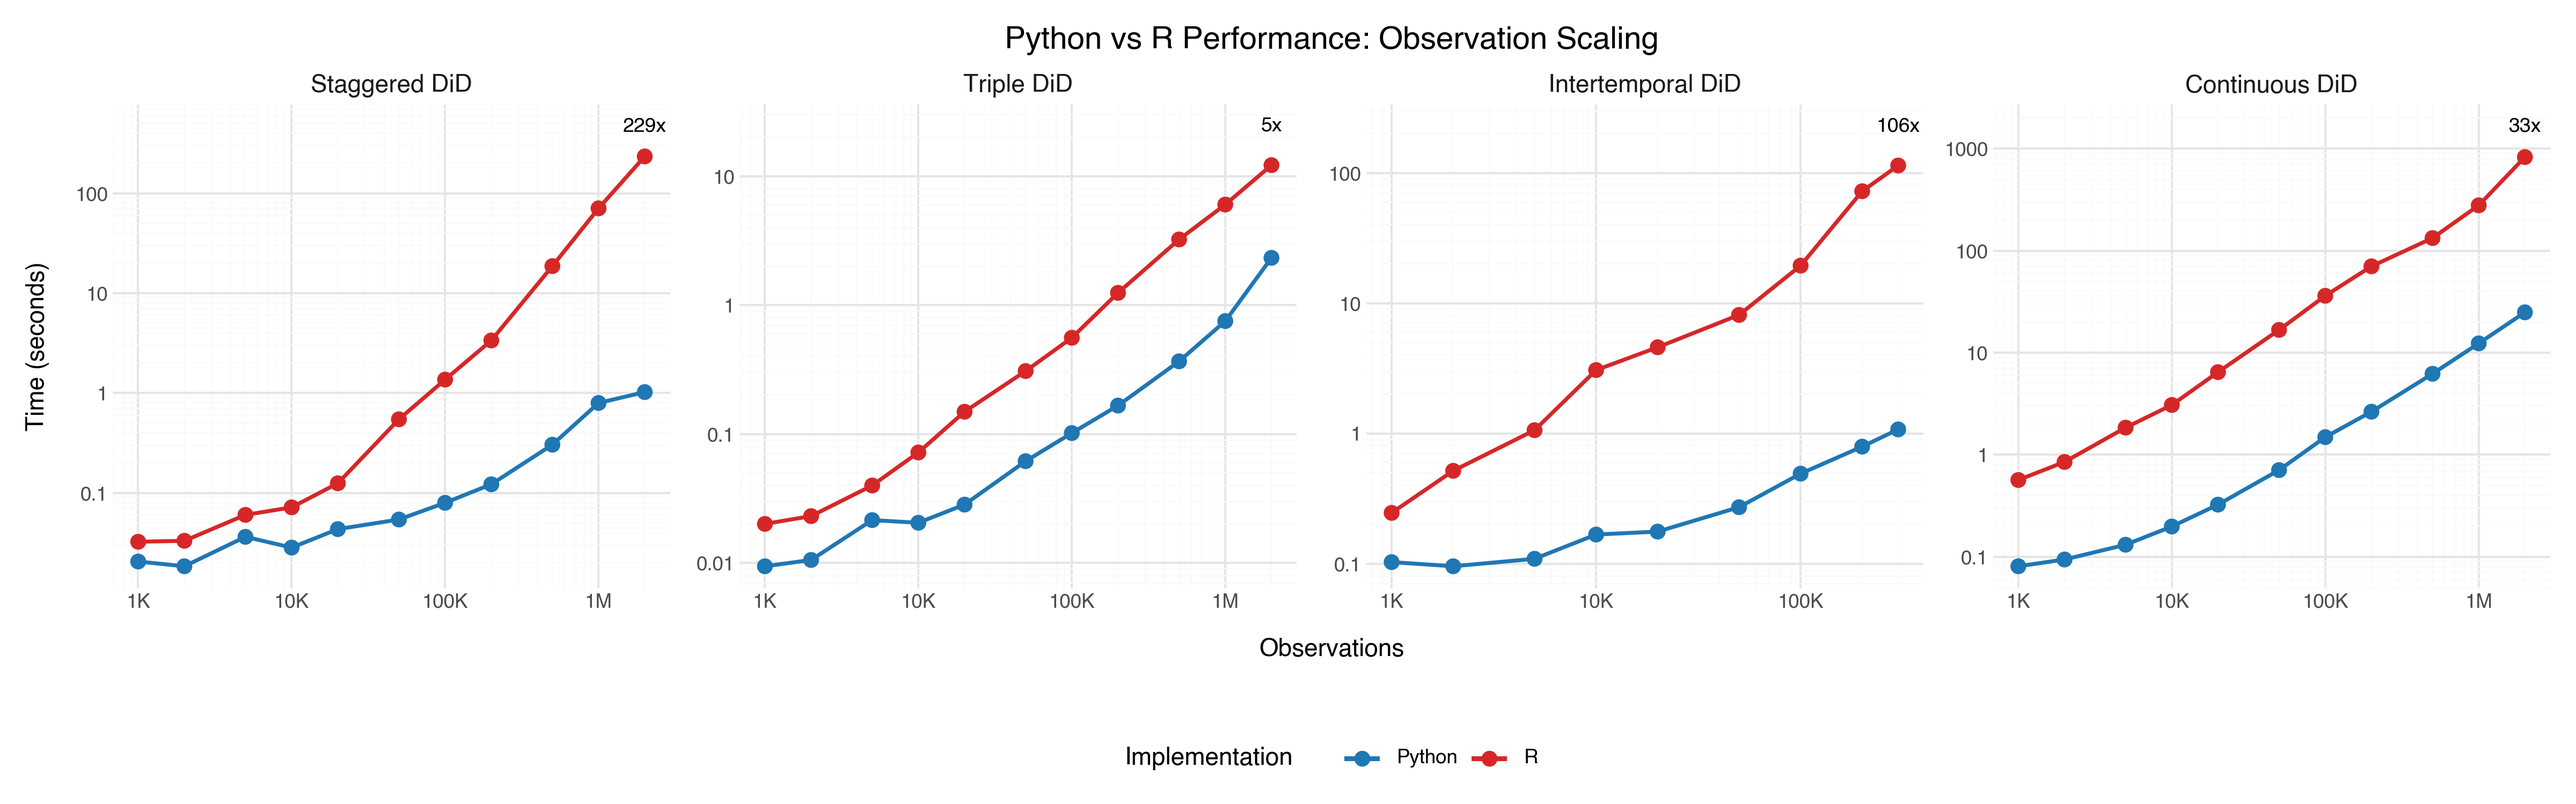
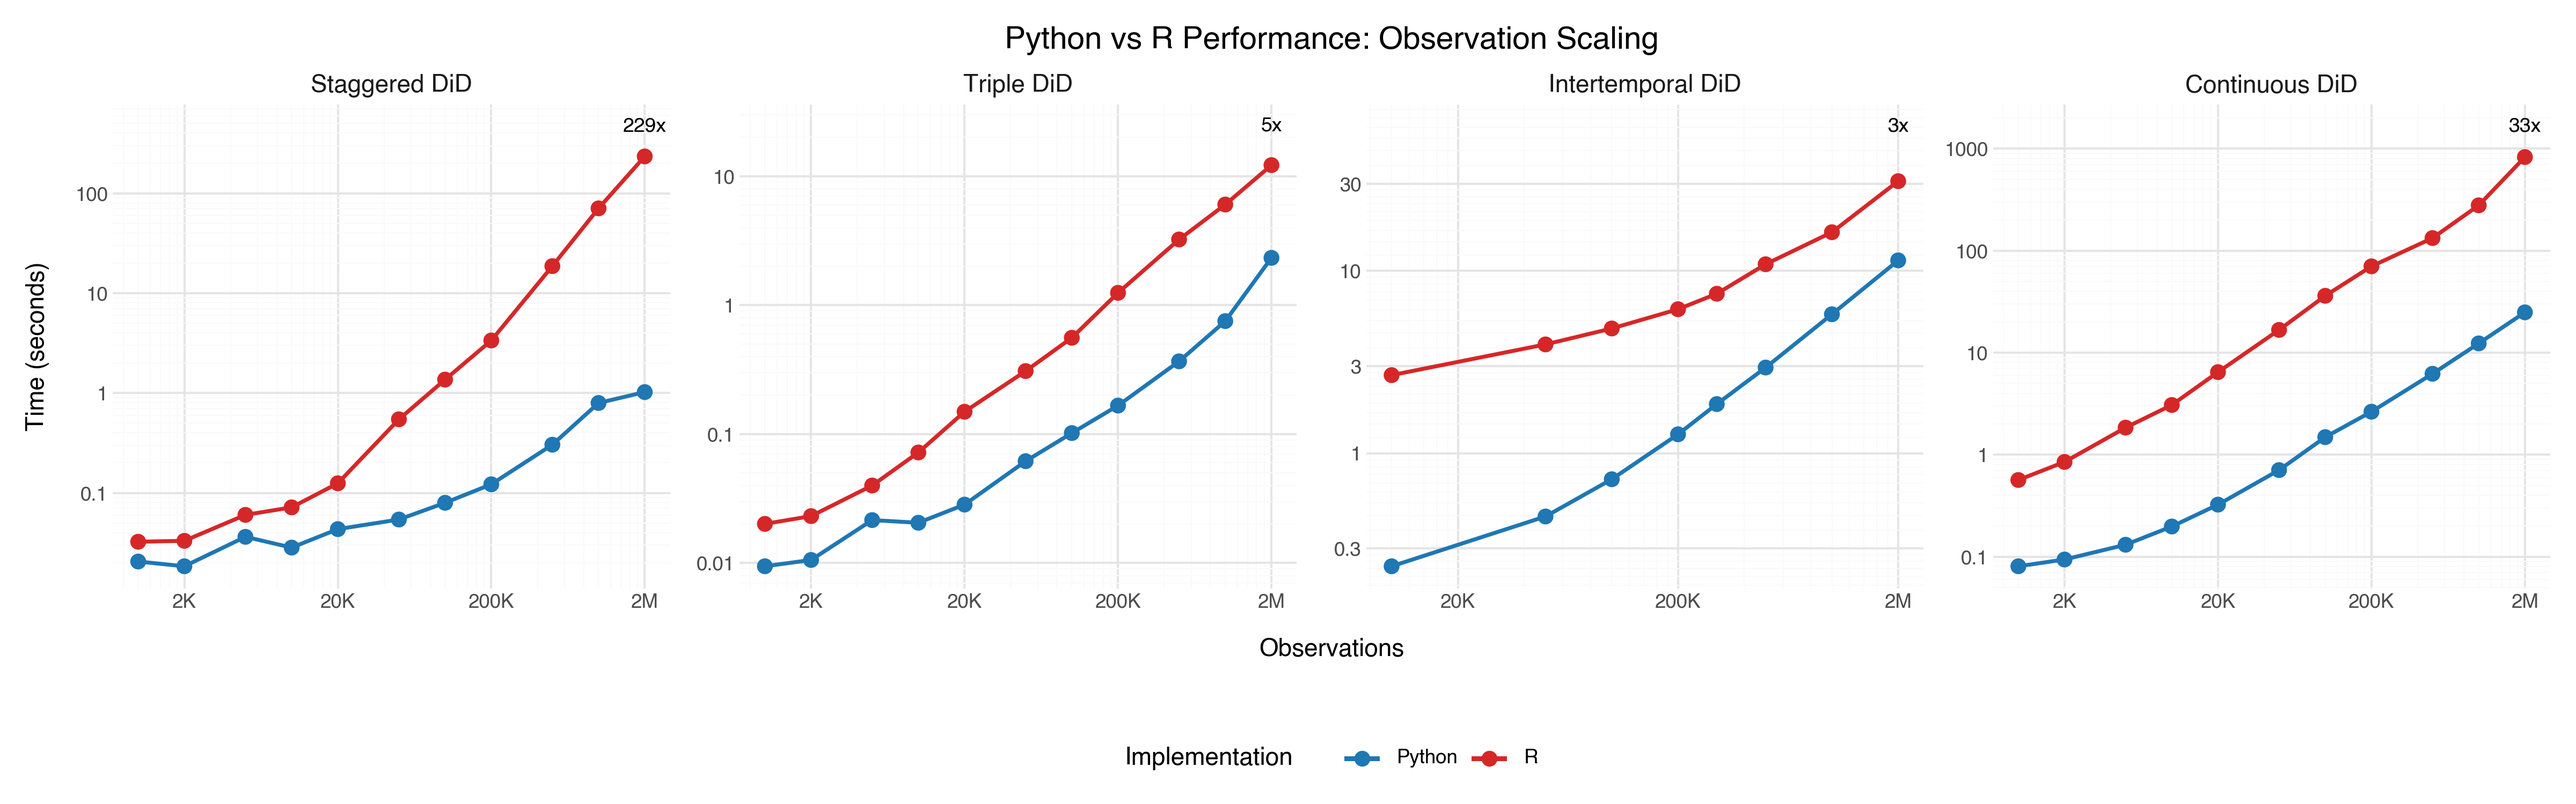
FEAT: update benchmark patterns, adjust max observations, and enhance documentation on ATT and ACRT

diff --git a/benchmark/plot.py b/benchmark/plot.py
@@ -44,7 +44,7 @@ ESTIMATOR_CONFIG = {
     "didinter": {
         "name": "Intertemporal DiD",
         "order": 3,
-        "patterns": ["benchmark_didinter_custom_*.csv"],
+        "patterns": ["benchmark_didinter_scaling_vs_r_*.csv"],
         "filter": {"boot": False, "n_periods": 8, "effects": 3},
     },
     "contdid": {
@@ -99,7 +99,7 @@ def main():
     parser.add_argument(
         "--max-obs",
         type=int,
-        default=None,
+        default=2_000_000,
         help="Maximum observations to include (filter out larger datasets)",
     )
 
@@ -184,9 +184,10 @@ def generate_plot(
         )
         + facet_wrap("~estimator", ncol=ncol, scales="free", labeller=labeller(estimator=_strip_prefix))
         + scale_x_log10(
+            breaks=[2000, 20000, 200000, 2000000],
             labels=lambda x: [
                 f"{int(v / 1000000)}M" if v >= 1000000 else f"{int(v / 1000)}K" if v >= 1000 else str(int(v)) for v in x
-            ]
+            ],
         )
         + scale_y_log10()
         + scale_color_manual(values={"Python": "#1f77b4", "R": "#d62728"})

diff --git a/benchmark/didinter/runners.py b/benchmark/didinter/runners.py
@@ -231,7 +231,6 @@ gc(verbose = FALSE, full = TRUE, reset = TRUE)
 
 # Load packages with minimal overhead
 suppressPackageStartupMessages({{
-    library(polars)
     library(DIDmultiplegtDYN)
     library(jsonlite)
     library(data.table)

diff --git a/docs/source/user_guide/example_cont_did.rst b/docs/source/user_guide/example_cont_did.rst
@@ -153,24 +153,41 @@ this, showing significant positive effects.
 The ``degree`` and ``num_knots`` parameters control the flexibility of the
 B-spline approximation. Higher values allow more complex dose-response shapes
 but increase variance. With ``degree=3`` and ``num_knots=1``, we use a cubic
-spline with one interior knot, which provides reasonable flexibility for most
-applications.
+spline with one interior knot.
 
 
 Understanding ATT versus ACRT
 -----------------------------
 
-Which one you should target depends on your research question.
+Which estimate you should target depends on your research question.
 
-The :math:`ATT(d)` estimate answers the question of what is the average effect of receiving dose :math:`d`
-compared to no treatment. This is the level of the dose-response curve at each
-point. For policy evaluation, ATT tells you the expected benefit of a specific
-treatment intensity.
+**ATT(d)** estimates the average effect of receiving dose :math:`d` compared
+to no treatment.
 
-The :math:`ACRT(d)` estimate answers the question of what is the marginal effect of increasing the
-dose. This is the derivative of the dose-response curve. For policy optimization,
-ACRT tells you whether increasing treatment intensity would yield additional
-benefits.
+- Level of the dose-response curve at each point
+- For policy evaluation, tells you the expected benefit of a specific
+  treatment intensity
+- Identified under standard parallel trends
+- Recovers :math:`ATT(d)`, a local effect for units who received dose
+  :math:`d`
+
+**ACRT(d)** estimates the marginal effect of increasing the dose.
+
+- Derivative (slope) of the dose-response curve
+- For policy optimization, tells you whether increasing intensity yields
+  additional benefits
+- Identified under strong parallel trends (typically stronger)
+- Recovers :math:`ATE(d)` and :math:`ACRT(d)` as population-level
+  parameters
+
+Both parameters come from the same underlying comparison, the change in
+outcomes for dose group :math:`d` minus the change for untreated units. What
+differs is the causal interpretation. Under standard parallel trends, this
+comparison identifies :math:`ATT(d)`, a local effect specific to units who
+actually received dose :math:`d`. Under strong parallel trends, it also
+identifies :math:`ATE(d)`, the effect for the general population, and
+:math:`ACRT(d)` gains a causal interpretation as the derivative of this
+curve.
 
 When the dose-response is linear, ATT and ACRT have a simple relationship
 because the slope is constant. With our quadratic specification, the ACRT
@@ -184,30 +201,50 @@ ATT and ACRT require different identifying assumptions, so which one you
 report depends on both your research question and what you are willing to
 assume.
 
-The :math:`ATT(d)` estimate is identified under standard parallel trends, the same assumption
-as in binary DiD extended to the continuous case. We assume that untreated
-potential outcomes would have evolved similarly across dose groups. If you
-believe that absent treatment, high-dose and low-dose units would have
-followed parallel outcome paths, ATT(d) is identified. This is the right
-target when you want to know the effect of receiving dose d versus no
-treatment.
+**ATT(d) and standard parallel trends**
 
-The :math:`ACRT(d)` estimate requires a stronger "strong parallel trends" assumption. To
-interpret outcome differences *across* dose groups as causal responses to
-dose changes, we need to rule out selection on gains. If units that benefit
-more from treatment systematically choose higher doses, comparing across
-dose groups conflates the causal effect with this selection. ACRT is the
-right target when you want to know the marginal benefit of increasing dose,
-but you should be explicit that this requires assuming no selection on gains.
+This is the same assumption as in binary DiD extended to the continuous
+case. We assume that untreated potential outcomes would have evolved
+similarly across dose groups. If you believe that absent treatment, high-dose
+and low-dose units would have followed parallel outcome paths, ATT(d) is
+identified. This is the right target when you want to know the effect of
+receiving dose d versus no treatment.
+
+**ACRT(d) and strong parallel trends**
+
+This is a typically stronger assumption than standard parallel trends (the
+two are technically non-nested, but in practice strong parallel trends is the
+more demanding condition). Standard parallel trends alone is not enough
+because comparing outcomes across dose groups mixes together the true causal
+response with a selection bias term. Even if untreated potential outcomes
+evolve identically, the observed outcome paths of different dose groups can
+diverge because units who chose different doses may experience different
+treatment effects from the same dose.
+
+Strong parallel trends eliminates this selection bias by ruling out
+systematic treatment effect heterogeneity across dose groups.
+
+- When combined with standard parallel trends, it is equivalent to assuming
+  :math:`ATT(d) = ATE(d)` for all :math:`d`, meaning the effect of dose
+  :math:`d` on units who chose that dose equals its effect on the general
+  population
+- This rules out selection on gains, where units that benefit more from
+  treatment systematically choose higher doses
+- ACRT is the right target when you want the marginal benefit of increasing
+  dose, but you should be explicit that this requires assuming away
+  selection on gains
+
 Consider whether units in your setting plausibly sort into doses based on
 expected benefits. When dose is assigned by policy rules or randomization
 rather than chosen by units, strong parallel trends is more defensible.
 
-One important caveat. Flat pre-treatment estimates are consistent with
-standard parallel trends, but they say nothing about whether strong parallel
-trends holds. Pre-treatment periods only involve untreated potential outcomes,
-while strong parallel trends restricts how *treated* potential outcomes vary
-across dose groups.
+.. important::
+
+   Flat pre-treatment estimates are consistent with standard parallel
+   trends, but they say nothing about whether strong parallel trends holds.
+   Pre-treatment periods only involve untreated potential outcomes, while
+   strong parallel trends restricts how *treated* potential outcomes vary
+   across dose groups.
 
 For the full theoretical treatment of these assumptions, see the
 :ref:`Background on Continuous DiD <background-didcont>`.

diff --git a/docs/source/user_guide/gpu.rst b/docs/source/user_guide/gpu.rst
@@ -1,8 +1,8 @@
 .. _gpu:
 
-========================
-GPU Acceleration (CuPy)
-========================
+===========================
+GPU Acceleration with CuPy
+===========================
 
 ModernDiD can offload numerical operations to NVIDIA GPUs via
 `CuPy <https://cupy.dev/>`_. When the GPU backend is active, matrix

diff --git a/docs/source/user_guide/distributed.rst b/docs/source/user_guide/distributed.rst
@@ -351,6 +351,7 @@ small set of controls.
 
     from moderndid.dask import dask_att_gt
 
+    # Low-level entry point (accepts client explicitly)
     result = dask_att_gt(
         data=ddf,
         yname="y",
